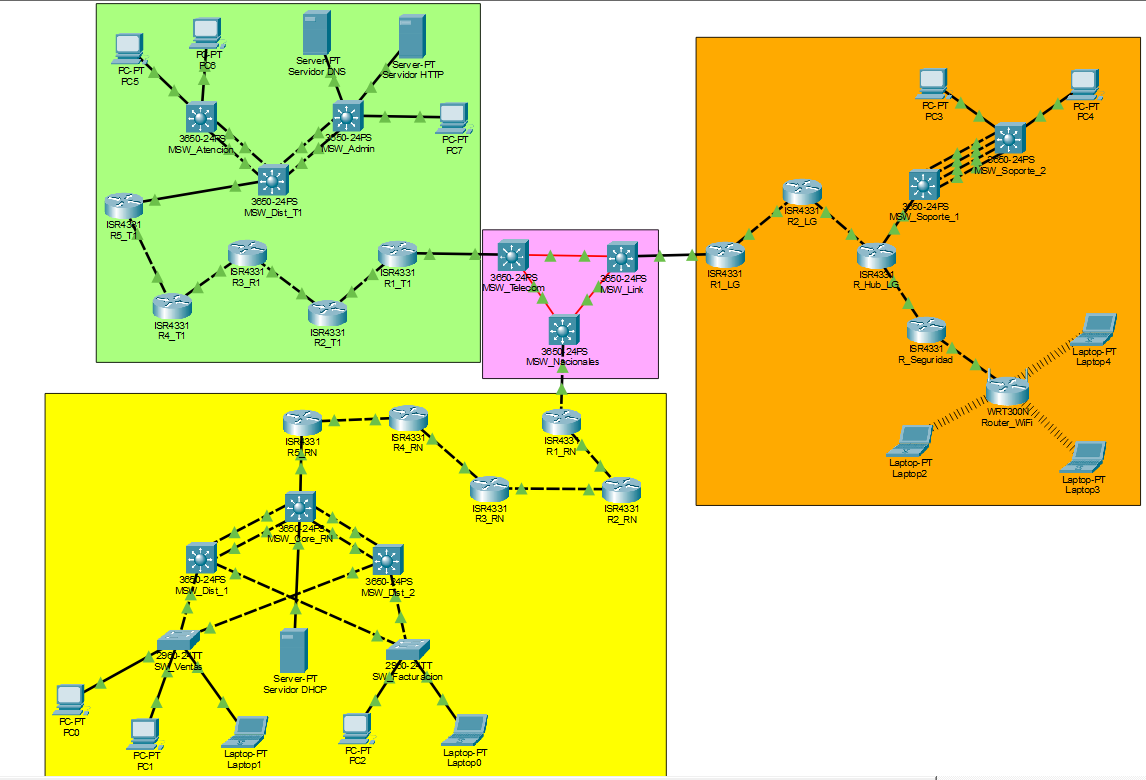
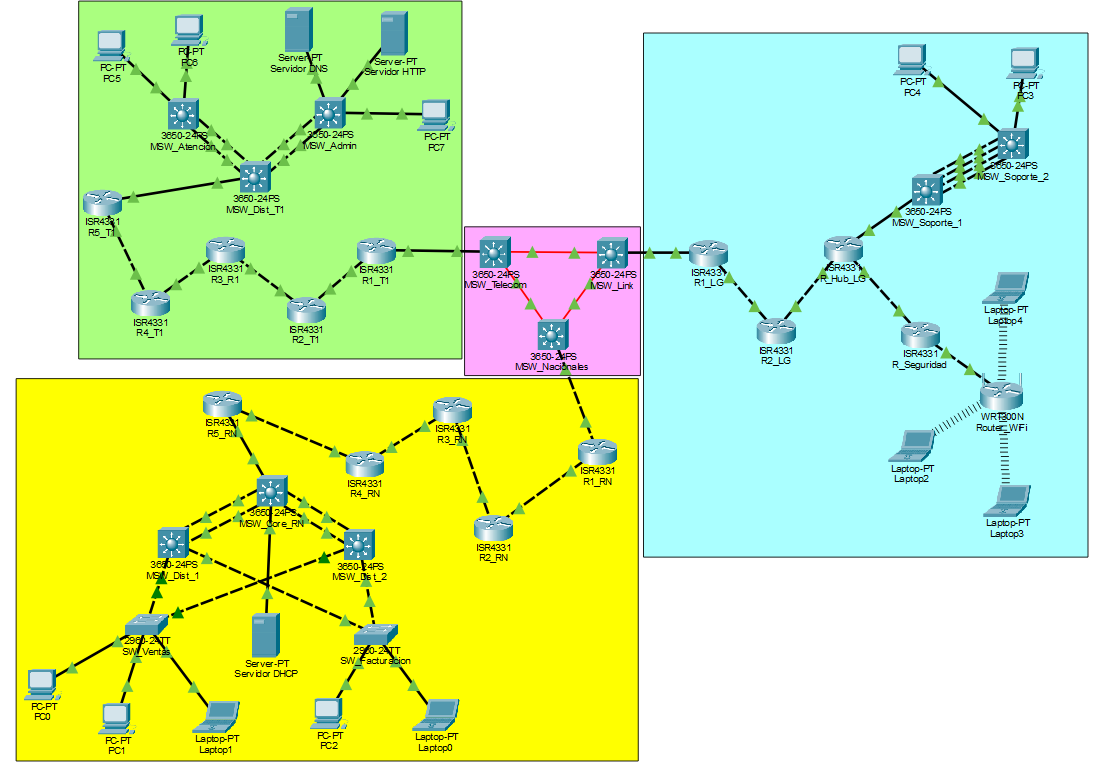
feat: add initial Packet Tracer project file for the second project

diff --git a/Proyecto2/manual.md b/Proyecto2/manual.md
@@ -1,68 +1,35 @@
 # Manual Técnico - Proyecto 2
 
 ## Tabla de Contenidos
-- [Manual Técnico - Proyecto 2](#manual-técnico---proyecto-2)
-  - [Tabla de Contenidos](#tabla-de-contenidos)
-  - [1. Objetivos](#1-objetivos)
-    - [1.1 Objetivo General](#11-objetivo-general)
-    - [1.2 Objetivos Específicos](#12-objetivos-específicos)
-  - [2. Alcance del Proyecto](#2-alcance-del-proyecto)
-    - [2.1 Inclusiones](#21-inclusiones)
-  - [3. Topología de Red](#3-topología-de-red)
-    - [3.1 Selección de Hardware (Simulado)](#31-selección-de-hardware-simulado)
-  - [4. Tabla de Conexiones de la Red](#4-tabla-de-conexiones-de-la-red)
-    - [4.1 Tabla de conexiones de la Red de Telecom](#41-tabla-de-conexiones-de-la-red-de-telecom)
-    - [4.2 Tabla de conexiones de Redes Nacionales (Jerárquico)](#42-tabla-de-conexiones-de-redes-nacionales-jerárquico)
-    - [4.3 Tabla de conexiones de Link Global (Hub and Spoke)](#43-tabla-de-conexiones-de-link-global-hub-and-spoke)
-  - [5. Tabla de Direccionamiento IP](#5-tabla-de-direccionamiento-ip)
-  - [6. Subnetting](#6-subnetting)
-    - [6.1 VLANs de Departamentos (VLSM /26)](#61-vlans-de-departamentos-vlsm-26)
-    - [6.2 Enlaces de Enrutamiento (Punto a Punto /30)](#62-enlaces-de-enrutamiento-punto-a-punto-30)
-  - [7. Configuraciones de Dispositivos](#7-configuraciones-de-dispositivos)
-    - [7.1 Configuración de Enrutamiento BGP en el Núcleo (Core)](#71-configuración-de-enrutamiento-bgp-en-el-núcleo-core)
-      - [7.1.1 Configuración MSW_Telecom (AS 100)](#711-configuración-msw_telecom-as-100)
-      - [7.1.2 Configuración MSW_Nacionales (AS 200)](#712-configuración-msw_nacionales-as-200)
-      - [7.1.3 Configuración MSW_Link (AS 300)](#713-configuración-msw_link-as-300)
-    - [7.2 Configuraciones de Dispositivos de Telecom Uno (ISP 1)](#72-configuraciones-de-dispositivos-de-telecom-uno-isp-1)
-      - [7.2.1 Configuración de Integración OSPF-BGP en MSW_Telecom](#721-configuración-de-integración-ospf-bgp-en-msw_telecom)
-      - [7.2.2 Configuración de Routers de Backbone (R1_T1 a R5_T1)](#722-configuración-de-routers-de-backbone-r1_t1-a-r5_t1)
-      - [7.2.3 Configuración MSW_Dist_T1 (Distribución y Gateway)](#723-configuración-msw_dist_t1-distribución-y-gateway)
-      - [7.2.4 Configuración MSW_Admin (Capa 2 y Servidores)](#724-configuración-msw_admin-capa-2-y-servidores)
-      - [7.2.5 Configuración MSW_Atencion (Capa 2)](#725-configuración-msw_atencion-capa-2)
-    - [7.3 Configuración de Servicios en Telecom Uno (DNS y HTTP)](#73-configuración-de-servicios-en-telecom-uno-dns-y-http)
-      - [7.3.1 Configuración de IP Estática (Ambos Servidores)](#731-configuración-de-ip-estática-ambos-servidores)
-      - [7.3.2 Configuración del Servicio HTTP](#732-configuración-del-servicio-http)
-      - [7.3.3 Configuración del Servicio DNS](#733-configuración-del-servicio-dns)
-    - [7.4 Configuraciones de Dispositivos de Redes Nacionales (ISP 2)](#74-configuraciones-de-dispositivos-de-redes-nacionales-isp-2)
-      - [7.4.1 Configuración de Integración OSPF-BGP en MSW_Nacionales](#741-configuración-de-integración-ospf-bgp-en-msw_nacionales)
-      - [7.4.2 Configuración de Routers de Backbone (R1_RN a R5_RN)](#742-configuración-de-routers-de-backbone-r1_rn-a-r5_rn)
-      - [7.4.3 Configuración MSW_Core_RN (Core y DHCP Gateway)](#743-configuración-msw_core_rn-core-y-dhcp-gateway)
-      - [7.4.4 Configuración MSW_Dist_1 (Distribución Primario)](#744-configuración-msw_dist_1-distribución-primario)
-      - [7.4.5 Configuración MSW_Dist_2 (Distribución Secundario)](#745-configuración-msw_dist_2-distribución-secundario)
-      - [7.4.6 Configuración de Switches de Acceso (SW_Ventas y SW_Facturacion)](#746-configuración-de-switches-de-acceso-sw_ventas-y-sw_facturacion)
-      - [7.4.7 Configuración del Servidor DHCP (GUI)](#747-configuración-del-servidor-dhcp-gui)
-    - [7.5 Configuraciones de Dispositivos de Link Global (ISP 3)](#75-configuraciones-de-dispositivos-de-link-global-isp-3)
-      - [7.5.1 Configuración de Integración EIGRP-BGP en MSW_Link](#751-configuración-de-integración-eigrp-bgp-en-msw_link)
-      - [7.5.2 Configuración de Routers de Backbone (R1_LG, R2_LG, R_Hub_LG)](#752-configuración-de-routers-de-backbone-r1_lg-r2_lg-r_hub_lg)
-      - [7.5.3 Configuración MSW_Soporte_1 (Spoke 1 - Inicio)](#753-configuración-msw_soporte_1-spoke-1---inicio)
-      - [7.5.4 Configuración MSW_Soporte_2 (Spoke 1 - Final y Gateway)](#754-configuración-msw_soporte_2-spoke-1---final-y-gateway)
-      - [7.5.5 Configuración R_Seguridad (Spoke 2)](#755-configuración-r_seguridad-spoke-2)
-      - [7.5.6 Configuración Router Inalámbrico y Actualización DHCP](#756-configuración-router-inalámbrico-y-actualización-dhcp)
-  - [8. Listas de Control de Acceso (ACLs)](#8-listas-de-control-de-acceso-acls)
-    - [8.1 ACL en Telecom Uno (Se aplica en MSW_Dist_T1)](#81-acl-en-telecom-uno-se-aplica-en-msw_dist_t1)
-    - [8.2 ACLs en Redes Nacionales (Se aplica en MSW_Dist_1 y MSW_Dist_2)](#82-acls-en-redes-nacionales-se-aplica-en-msw_dist_1-y-msw_dist_2)
-    - [8.3 ACL en Link Global (Se aplica en R_Seguridad)](#83-acl-en-link-global-se-aplica-en-r_seguridad)
-  - [9. Justificación de Diseños Topológicos](#9-justificación-de-diseños-topológicos)
-    - [9.1 Topología de Árbol (Telecom Uno)](#91-topología-de-árbol-telecom-uno)
-    - [9.2 Modelo Jerárquico de 3 Capas (Redes Nacionales)](#92-modelo-jerárquico-de-3-capas-redes-nacionales)
-    - [9.3 Topología Hub and Spoke (Link Global)](#93-topología-hub-and-spoke-link-global)
-    - [9.4 Implementación de Backbone de Tránsito en Serie](#94-implementación-de-backbone-de-tránsito-en-serie)
-  - [10. Lista de Precios de Hardware (Cotización Estimada)](#10-lista-de-precios-de-hardware-cotización-estimada)
-  - [11. Comandos de Verificación](#11-comandos-de-verificación)
-    - [11.1 Verificación de Enrutamiento (BGP, OSPF, EIGRP)](#111-verificación-de-enrutamiento-bgp-ospf-eigrp)
-    - [11.2 Verificación de Alta Disponibilidad y Agregación](#112-verificación-de-alta-disponibilidad-y-agregación)
-    - [11.3 Verificación de Servicios y Seguridad](#113-verificación-de-servicios-y-seguridad)
-    - [11.4 Pruebas de Extremo a Extremo](#114-pruebas-de-extremo-a-extremo)
+
+- [1. Objetivos](#1-objetivos)
+  - [1.1 Objetivo General](#11-objetivo-general)
+  - [1.2 Objetivos Específicos](#12-objetivos-específicos)
+- [2. Alcance del Proyecto](#2-alcance-del-proyecto)
+  - [2.1 Inclusiones](#21-inclusiones)
+- [3. Topología de Red](#3-topología-de-red)
+  - [3.1 Selección de Hardware (Simulado)](#31-selección-de-hardware-simulado)
+- [4. Tabla de Conexiones de la Red](#4-tabla-de-conexiones-de-la-red)
+  - [4.1 Tabla de conexiones de la Red de Telecom](#41-tabla-de-conexiones-de-la-red-de-telecom)
+  - [4.2 Tabla de conexiones de Redes Nacionales (Jerárquico)](#42-tabla-de-conexiones-de-redes-nacionales-jerárquico)
+  - [4.3 Tabla de conexiones de Link Global (Hub and Spoke)](#43-tabla-de-conexiones-de-link-global-hub-and-spoke)
+- [5. Tabla de Direccionamiento IP](#5-tabla-de-direccionamiento-ip)
+- [6. Subnetting](#6-subnetting)
+  - [6.1 VLANs de Departamentos (VLSM /26)](#61-vlans-de-departamentos-vlsm-26)
+  - [6.2 Enlaces de Enrutamiento (Punto a Punto /30)](#62-enlaces-de-enrutamiento-punto-a-punto-30)
+- [7. Configuraciones de Dispositivos](#7-configuraciones-de-dispositivos)
+  - [7.1 Configuración de Enrutamiento BGP en el Núcleo (Core)](#71-configuración-de-enrutamiento-bgp-en-el-núcleo-core)
+  - [7.2 Configuraciones de Dispositivos de Telecom Uno (ISP 1)](#72-configuraciones-de-dispositivos-de-telecom-uno-isp-1)
+  - [7.3 Configuración de Servicios en Telecom Uno (DNS y HTTP)](#73-configuración-de-servicios-en-telecom-uno-dns-y-http)
+  - [7.4 Configuraciones de Dispositivos de Redes Nacionales (ISP 2)](#74-configuraciones-de-dispositivos-de-redes-nacionales-isp-2)
+  - [7.5 Configuraciones de Dispositivos de Link Global (ISP 3)](#75-configuraciones-de-dispositivos-de-link-global-isp-3)
+- [8. Listas de Control de Acceso (ACLs)](#8-listas-de-control-de-acceso-acls)
+- [9. Justificación de Diseños Topológicos](#9-justificación-de-diseños-topológicos)
+- [10. Lista de Precios de Hardware (Cotización Estimada)](#10-lista-de-precios-de-hardware-cotización-estimada)
+- [11. Comandos de Verificación](#11-comandos-de-verificación)
+
+---
+xtremo-a-extremo)
 
 ---
 
@@ -112,8 +79,8 @@ Para satisfacer los requerimientos de enrutamiento dinámico (OSPF/EIGRP/BGP), a
 
 ## 4. Tabla de Conexiones de la Red
 
-| Dispositivo Origen | Interfaz  | Dispositivo Destino | Interfaz  | Cable          | Módulo SFP  |
-|--------------------|-----------|---------------------|-----------|----------------|-------------|
+| **Dispositivo Origen** | **Interfaz** | **Dispositivo Destino** | **Interfaz** | **Cable** | **Módulo SFP** |
+|:---|:---|:---|:---|:---|:---|
 | MSW_Telecom | Gi1/1/1 | MSW_Nacionales | Gi1/1/1 | Fibra Óptica | GLC-LH-SMD |
 | MSW_Nacionales | Gi1/1/2 | MSW_Link | Gi1/1/1 | Fibra Óptica | GLC-LH-SMD |
 | MSW_Link | Gi1/1/2 | MSW_Telecom | Gi1/1/2 | Fibra Óptica | GLC-LH-SMD |
@@ -124,8 +91,8 @@ Para satisfacer los requerimientos de enrutamiento dinámico (OSPF/EIGRP/BGP), a
 
 ### 4.1 Tabla de conexiones de la Red de Telecom
 
-| Origen       | Puerto Origen          | Destino       | Puerto Destino         | Cable          |
-|--------------|------------------------|---------------|------------------------|----------------|
+| **Origen** | **Puerto Origen** | **Destino** | **Puerto Destino** | **Cable** |
+|:---:|:---:|:---:|:---:|:---:|
 | MSW_Telecom | Gi1/0/24 | R1_T1 | Gi0/0/0 | Cobre Directo |
 | R1_T1 | Gi0/0/1 | R2_T1 | Gi0/0/0 | Cobre Cruzado |
 | R2_T1 | Gi0/0/1 | R3_T1 | Gi0/0/0 | Cobre Cruzado |
@@ -136,13 +103,11 @@ Para satisfacer los requerimientos de enrutamiento dinámico (OSPF/EIGRP/BGP), a
 | MSW_Dist_T1  | Gi1/0/4 y Gi1/0/5      | MSW_Atencion  | Gi1/0/4 y Gi1/0/5      | Cobre Cruzado  |
 | MSW_Admin    | Gi1/0/10               | Servidor DNS  | Fa0                    | Cobre Directo  |
 | MSW_Admin    | Gi1/0/11               | Servidor HTTP | Fa0                    | Cobre Directo  |
-| **MSW_Admin** | Gi1/0/15 | **PC_Admin_1** | Fa0 | Cobre Directo |
-| **MSW_Atencion** | Gi1/0/15 | **PC_Atencion_1** | Fa0 | Cobre Directo |
-| **MSW_Atencion** | Gi1/0/16 | **PC_Atencion_2** | Fa0 | Cobre Directo |
-
+| MSW_Admin | Gi1/0/15 | PC_Admin_1 | Fa0 | Cobre Directo |
+| MSW_Atencion | Gi1/0/15 | PC_Atencion_1 | Fa0 | Cobre Directo |
+| MSW_Atencion | Gi1/0/16 | PC_Atencion_2 | Fa0 | Cobre Directo |
 
 ### 4.2 Tabla de conexiones de Redes Nacionales (Jerárquico)
-
 
 | Origen | Puerto Origen | Destino | Puerto Destino | Cable | Observación |
 | :--- | :--- | :--- | :--- | :--- | :--- |
@@ -152,18 +117,18 @@ Para satisfacer los requerimientos de enrutamiento dinámico (OSPF/EIGRP/BGP), a
 | R3_RN | Gi0/0/1 | R4_RN | Gi0/0/0 | Cobre Cruzado | Backbone RN |
 | R4_RN | Gi0/0/1 | R5_RN | Gi0/0/0 | Cobre Cruzado | Backbone RN |
 | R5_RN | Gi0/0/1 | MSW_Core_RN | Gi1/0/1 | Cobre Directo | Hacia Core RN |
-| **MSW_Core_RN** | **Gi1/0/2 y Gi1/0/3** | **MSW_Dist_1** | **Gi1/0/2 y Gi1/0/3** | Cobre Cruzado | **Enlace LACP 1** |
-| **MSW_Core_RN** | **Gi1/0/4 y Gi1/0/5** | **MSW_Dist_2** | **Gi1/0/4 y Gi1/0/5** | Cobre Cruzado | **Enlace LACP 2** |
-| **MSW_Dist_1** | Gi1/0/10 | **SW_Ventas** | Gi0/1 | Cobre Directo | Enlace redundante 1 |
-| **MSW_Dist_2** | Gi1/0/10 | **SW_Ventas** | Gi0/2 | Cobre Directo | Enlace redundante 2 |
-| **MSW_Dist_1** | Gi1/0/11 | **SW_Facturacion** | Gi0/1 | Cobre Directo | Enlace redundante 1 |
-| **MSW_Dist_2** | Gi1/0/11 | **SW_Facturacion** | Gi0/2 | Cobre Directo | Enlace redundante 2 |
-| **MSW_Core_RN** | Gi1/0/20 | **Servidor DHCP** | Fa0 | Cobre Directo | Host de servicio DHCP |
-| **SW_Ventas** | Fa0/1 | **PC0** | Fa0 | Cobre Directo | Host Ventas |
-| **SW_Ventas** | Fa0/2 | **PC1** | Fa0 | Cobre Directo | Host Ventas |
-| **SW_Ventas** | Fa0/3 | **Laptop1** | Fa0 | Cobre Directo | Host Ventas |
-| **SW_Facturacion** | Fa0/1 | **PC2** | Fa0 | Cobre Directo | Host Facturación |
-| **SW_Facturacion** | Fa0/2 | **Laptop0** | Fa0 | Cobre Directo | Host Facturación |
+| MSW_Core_RN | Gi1/0/2 y Gi1/0/3 | MSW_Dist_1 | Gi1/0/2 y Gi1/0/3 | Cobre Cruzado | Enlace LACP 1 |
+| MSW_Core_RN | Gi1/0/4 y Gi1/0/5 | MSW_Dist_2 | Gi1/0/4 y Gi1/0/5 | Cobre Cruzado | Enlace LACP 2 |
+| MSW_Dist_1 | Gi1/0/10 | SW_Ventas | Gi0/1 | Cobre Directo | Enlace redundante 1 |
+| MSW_Dist_2 | Gi1/0/10 | SW_Ventas | Gi0/2 | Cobre Directo | Enlace redundante 2 |
+| MSW_Dist_1 | Gi1/0/11 | SW_Facturacion | Gi0/1 | Cobre Directo | Enlace redundante 1 |
+| MSW_Dist_2 | Gi1/0/11 | SW_Facturacion | Gi0/2 | Cobre Directo | Enlace redundante 2 |
+| MSW_Core_RN | Gi1/0/20 | Servidor DHCP | Fa0 | Cobre Directo | Host de servicio DHCP |
+| SW_Ventas | Fa0/1 | PC0 | Fa0 | Cobre Directo | Host Ventas |
+| SW_Ventas | Fa0/2 | PC1 | Fa0 | Cobre Directo | Host Ventas |
+| SW_Ventas | Fa0/3 | Laptop1 | Fa0 | Cobre Directo | Host Ventas |
+| SW_Facturacion | Fa0/1 | PC2 | Fa0 | Cobre Directo | Host Facturación |
+| SW_Facturacion | Fa0/2 | Laptop0 | Fa0 | Cobre Directo | Host Facturación |
 
 ### 4.3 Tabla de conexiones de Link Global (Hub and Spoke)
 
@@ -1151,7 +1116,9 @@ write memory
 
 ```
 
-#### 7.5.1.2 Configuración R1_LG 
+#### 7.5.2 Configuración de Routers de Backbone (R1_LG, R2_LG, R_Hub_LG)
+
+##### Configuración R1_LG
 
 
 ```bash
@@ -1180,7 +1147,7 @@ write memory
 ```
 
 
-#### 7.5.1.3 Configuración R2_LG 
+##### Configuración R2_LG
 
 ```bash
 enable
@@ -1211,7 +1178,7 @@ write memory
 
 
 
-#### 7.5.2 Configuración R_Hub_LG (Centro de la Estrella)
+##### Configuración R_Hub_LG (Centro de la Estrella)
 
 
 ```bash
@@ -1607,7 +1574,9 @@ Para cumplir estrictamente con los lineamientos del proyecto de implementar 5 ro
 | Transceptor SFP GLC-LH-SMD (Fibra) | 6 | $45.00 | $270.00 | Q2,092.50 |
 | Router Inalámbrico Linksys WRT300N | 1 | $60.00 | $60.00 | Q465.00 |
 | Servidores Genéricos (Servicios) | 3 | $2,000.00 | $6,000.00 | Q46,500.00 |
-| **TOTAL ESTIMADO** | | | **$40,230.00** | **Q311,825.00** |
+| Mano de Obra (Diseño e Implementación) | 30 Hrs | $166.67 | $5,000.00 | Q38,750.00 |
+| **TOTAL ESTIMADO** | | | **$46,230.00** | **Q358,282.50** |
+
 
 
 --- 
@@ -1633,8 +1602,6 @@ A continuación, se presenta una lista de comandos útiles a ejecutar en la Inte
 ### 11.4 Pruebas de Extremo a Extremo
 * En la Command Prompt de cualquier PC final, usar el comando `ping [IP_Destino]` considerando las reglas de la matriz de comunicación permitida.
 * Desde el *Web Browser* en terminales (Pestaña Desktop), acceder al URL proporcionado `http://www.proyecto2_202302220.com` para comprobar resolución DNS y servicio HTTP.
-| Servidores Genéricos (Servicios) | 3 | $2,000.00 | $6,000.00 | Q46,500.00 |
-| **TOTAL ESTIMADO** | | | **$24,730.00** | **Q191,657.50** |
 
 
 